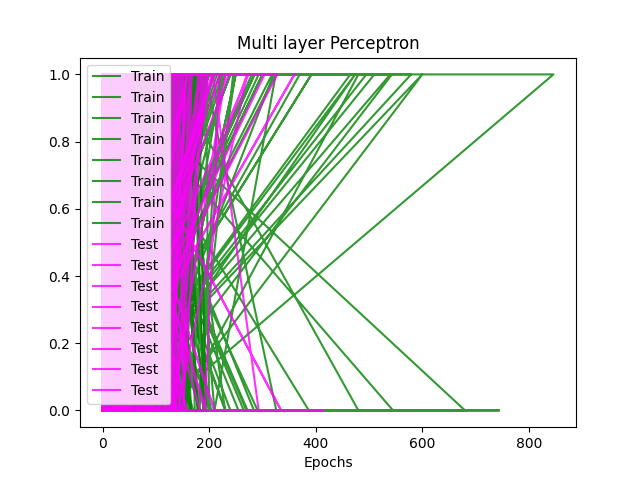
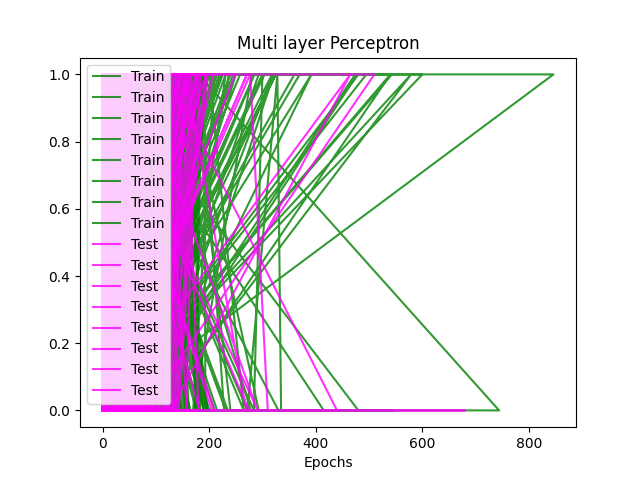
fix : added learning rate_init

diff --git a/main.py b/main.py
@@ -14,7 +14,8 @@ instance = MlpClassifier(data[['Pregnancies', 'Glucose', 'BloodPressure',
                              'activation': ['tanh', 'relu', 'logistic'],
                              'solver': ['lbfgs', 'sgd', 'adam'],
                              'alpha': [0.0001, 0.05],
-                             'learning_rate': ['constant', 'adaptive'],
+                             'learning_rate': ['constant', 'adaptive', 'invscaling'],
+                             'learning_rate_init': [0.001, 0.002, 0.003]
                          }
                          )
 

diff --git a/src/mlp_classifier.py b/src/mlp_classifier.py
@@ -64,7 +64,7 @@ class MlpClassifier:
         scalar = StandardScaler()
         scalar.fit_transform(data_x)
         scalar.fit_transform(data_y)
-        self.grid.fit(self.train_x, self.y_train)
+        self.run_mlp()
         plt.plot(self.train_x, self.y_train, color='green', alpha=0.8, label='Train')
         plt.plot(self.test_x, self.y_test, color='magenta', alpha=0.8, label='Test')
         plt.title('Multi layer Perceptron')
